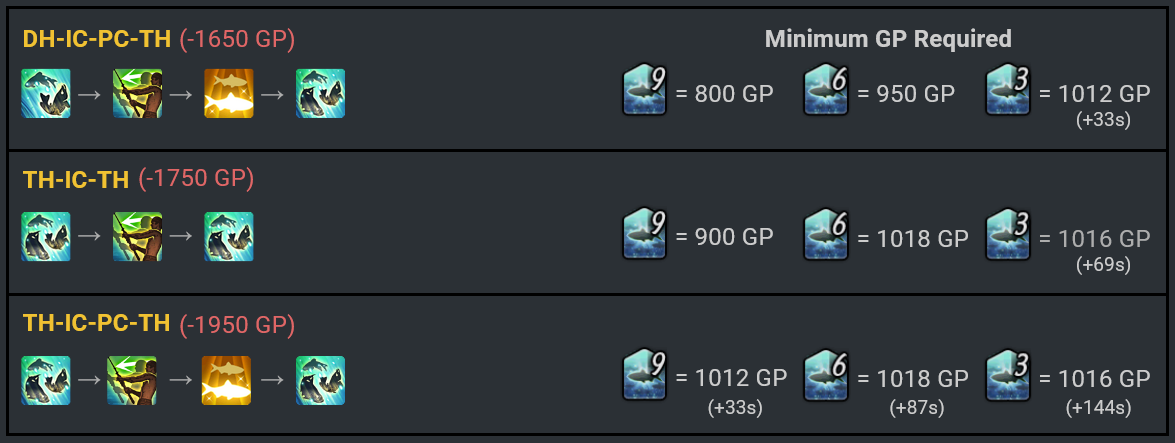
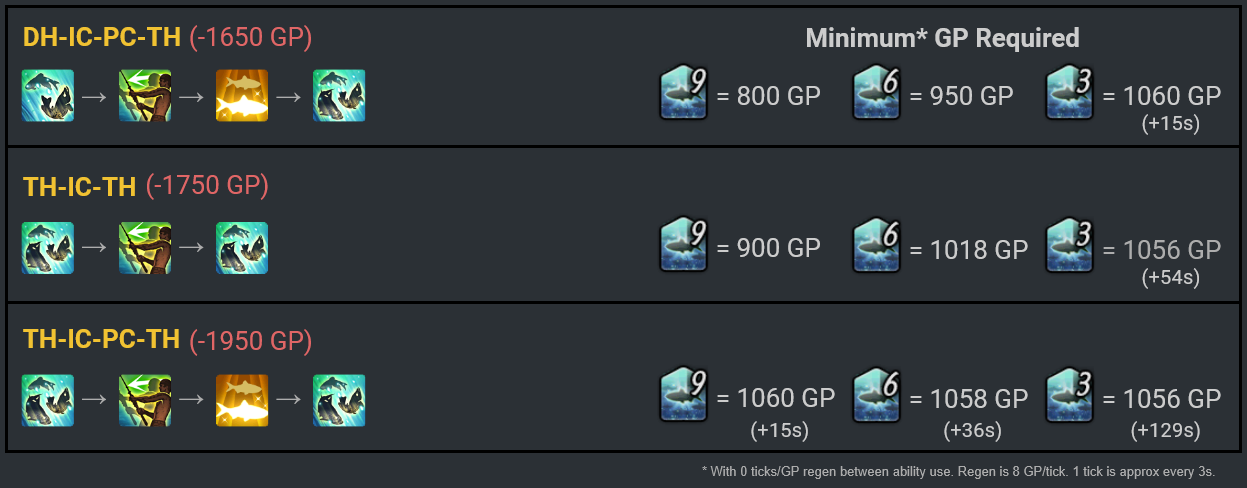
DT FAQ Updoots

Changed region(s): [[0.0, 0.0, 1.0, 0.9977]]

diff --git a/FAQ/index.html b/FAQ/index.html
@@ -597,6 +597,9 @@
                     video</a>.</li>
               </ul>
 
+              <p>The Lv. 50 trait Fisher's Instinct <img class="iconSmaller" src="../img/skills/Fishers_Instinct.png" alt="Fishers Instinct Icon"> makes it so your Fisher's Intuition <img class="iconSmaller" src="../img/Intuition.png" alt="Fishers Intution Icon"> buff has a chance to refresh if you catch one of the fish that triggers the buff during it, allowing you to "rebuild" the buff without catching everything necessary in the case of buffs where multiple [of a] fish are required.
+                This is not usually worth going out of your way to try to proc due to the length of the Intuition buffs in Ocean Fishing, and will not count if the fish lands in your inventory on a Cast you did while the buff was up but fell off during.</p>
+
             </div>
           </div>
         </div>
@@ -679,10 +682,9 @@
           <div id="collapseEleven" class="accordion-collapse collapse" data-bs-parent="#accordionExample">
             <div class="accordion-body">
               <p>The only stat that matters in Ocean Fishing is GP. No amount of GP is too high. This means that at Lv.
-                90 you still want the best gear you can or care to get so you can have high GP.</p>
+                100 you still want the best gear you can or care to get so you can have high GP.</p>
 
-              <p>963 GP is currently the highest amount attainable in i620 gear. With food (HQ Crab Cakes/Yakow
-                Moussaka, +55), the highest GP value currently reachable is 1018.</p>
+              <p>1002 GP is currently the highest amount attainable in i690 gear. With food (HQ Nasi Goreng, +58), the highest GP value currently reachable is 1060.</p>
 
               <p>Gathering and perception have no hard breakpoints in Ocean Fishing, nor does gathering affect
                 Double/Triple Hook yields.</p>
@@ -713,34 +715,52 @@
           </h2>
           <div id="collapseThirteen" class="accordion-collapse collapse" data-bs-parent="#accordionExample">
             <div class="accordion-body">
-              <p><strong>Indigo:</strong> 957 GP, if you also eat food to reach 1012.</p>
+              <p><strong>Indigo:</strong> 992+ GP, if you also eat food to reach 1050-1060.</p>
               <ul>
-                <li>963, or 1018 after food, can be useful but getting the extra 6 GP involves losing much more
-                  gathering/perception. If the gear is also going to be used for something other than Ocean Fishing,
-                  it's not advised to reach 963.</li>
+                <li>This amount is flexible because it depends on how you use your abilities, what combos you plan to use, and how you use Angler's Art stacks.</li>
+                <li>1002 base GP is only advised if you are planning to use DH-IC-PC-TH at 3 Angler's Art stacks often and you press your abilities very quickly. You regenerate 8 GP every ~3s so if you expect to spend ~3s using the first three steps of this combination, then 994 GP is fine.</li>
+                <li>At least 992 base GP is advised because at least this amount with HQ Nasi Goreng has the highest potential for an extra use of TH or PC-DH depending on the situation.</li>
               </ul>
-              <p><strong>Ruby:</strong> 961 GP if you also eat food to reach 1016, is the amount that is most likely to
-                be useful.</p>
+              <p><strong>Ruby:</strong> 998 GP if you also eat food to reach 1056, is the amount that is most likely to be useful.</p>
               <ul>
-                <li>The highest amount you can get is advised because Ruby does not involve using set combinations of
-                  skills, however the extra 2 GP will only notably be useful if you use GP regularly before spectral
-                  currents or in atypical ways.</li>
+                <li>The highest amount you can get is advised because Ruby does not involve using set combinations of skills, however the extra 4 GP will likely notably be useful if you use GP regularly before spectral currents or in atypical ways.</li>
               </ul>
 
-              <p>If you don't eat food, 950 GP is advised.</p>
+              <p>If you don't eat food, 1002 GP is the ideal GP you could have. 950 GP is the recommended minimum.</p>
 
-              <img class="infographic" src="../img/faq/GPchart.png" alt="Indigo Ability Combo Chart">
+              <img class="infographic" src="../img/faq/GPchart.png?v=DT0" alt="Indigo Ability Combo Chart">
               <p>This graphic for Indigo ability combinations shows the most relevant GP breakpoints.</p>
               <ul>
-                <li>The "Minimum GP required" is showing how much GP you need, in addition to the specified Angler's Art
-                  stacks and time you will need to wait to regen GP (if noted), to execute the specific combos.</li>
+                <li>The "Minimum GP required" is showing how much GP you need assuming no GP regen between ability use, in addition to the specified Angler's Art stacks and time you will need to wait to regen GP (if noted), to execute the specific combos.</li>
                 <li>It is not efficient, viable, or often even possible, to wait more than 33s.</li>
                 <li>The most common ability usage is DH-IC-PC-TH so operating around this combination is advised.</li>
-                <li>TH-IC-TH is not advised for regular use. If you prefer using it then 1018 is advised as having 6
-                  stacks in a current is common.</li>
+                <li>TH-IC-TH is not advised for regular use. If you prefer using it then at least 1018 GP is advised as having 6 stacks in a current is common.</li>
               </ul>
 
               <p>The graphic is not relevant for Ruby as these combinations are not used there.</p>
+            </div>
+          </div>
+        </div>
+
+        <div class="accordion-item">
+          <h2 class="accordion-header">
+            <button class="accordion-button collapsed" type="button" data-bs-toggle="collapse"
+              data-bs-target="#collapseRod" aria-expanded="false" aria-controls="collapseRod">
+              Lodestar Fishing Rod
+            </button>
+          </h2>
+          <div id="collapseRod" class="accordion-collapse collapse" data-bs-parent="#accordionExample">
+            <div class="accordion-body">
+              <p><b>If your desired base GP level is less than 1002, the Lodestar Fishing Rod is BiS.</b> The Lodestar Fishing Rod has 9 GP while a HQ Claro Walnut Fishing Rod can be melded with 10 so if you intend to make use of max GP then it cannot be used.</p>
+
+<p>This is the EW FSH relic rod and comes with a unique trait trait:
+Has a chance to reduce the GP cost of Powerful Hookset and Precision Hookset by 50%.
+<b>Any version of the relic once it has the trait is the same for Ocean Fishing.</b> Later stages of the relic do not have a higher chance for the trait to proc and the extra stats the later stages have are irrelevant.</p>
+
+<p>This has a ~15% chance to occur, potentially saving GP while building Angler's Art stacks or otherwise using Patience.
+<b>This does not make Patience more viable to use in new ways, but makes it safer/easier to use where it is already.</b></p>
+
+<p>If you do not use Patience at all, then there is no point in using the Lodestar Rod and you may as well use a HQ Claro Walnut Fishing Rod if it's melded with 10 GP, or the Lodestar Rod will be equivalent to any other rod melded with 9 GP.</p>
             </div>
           </div>
         </div>
